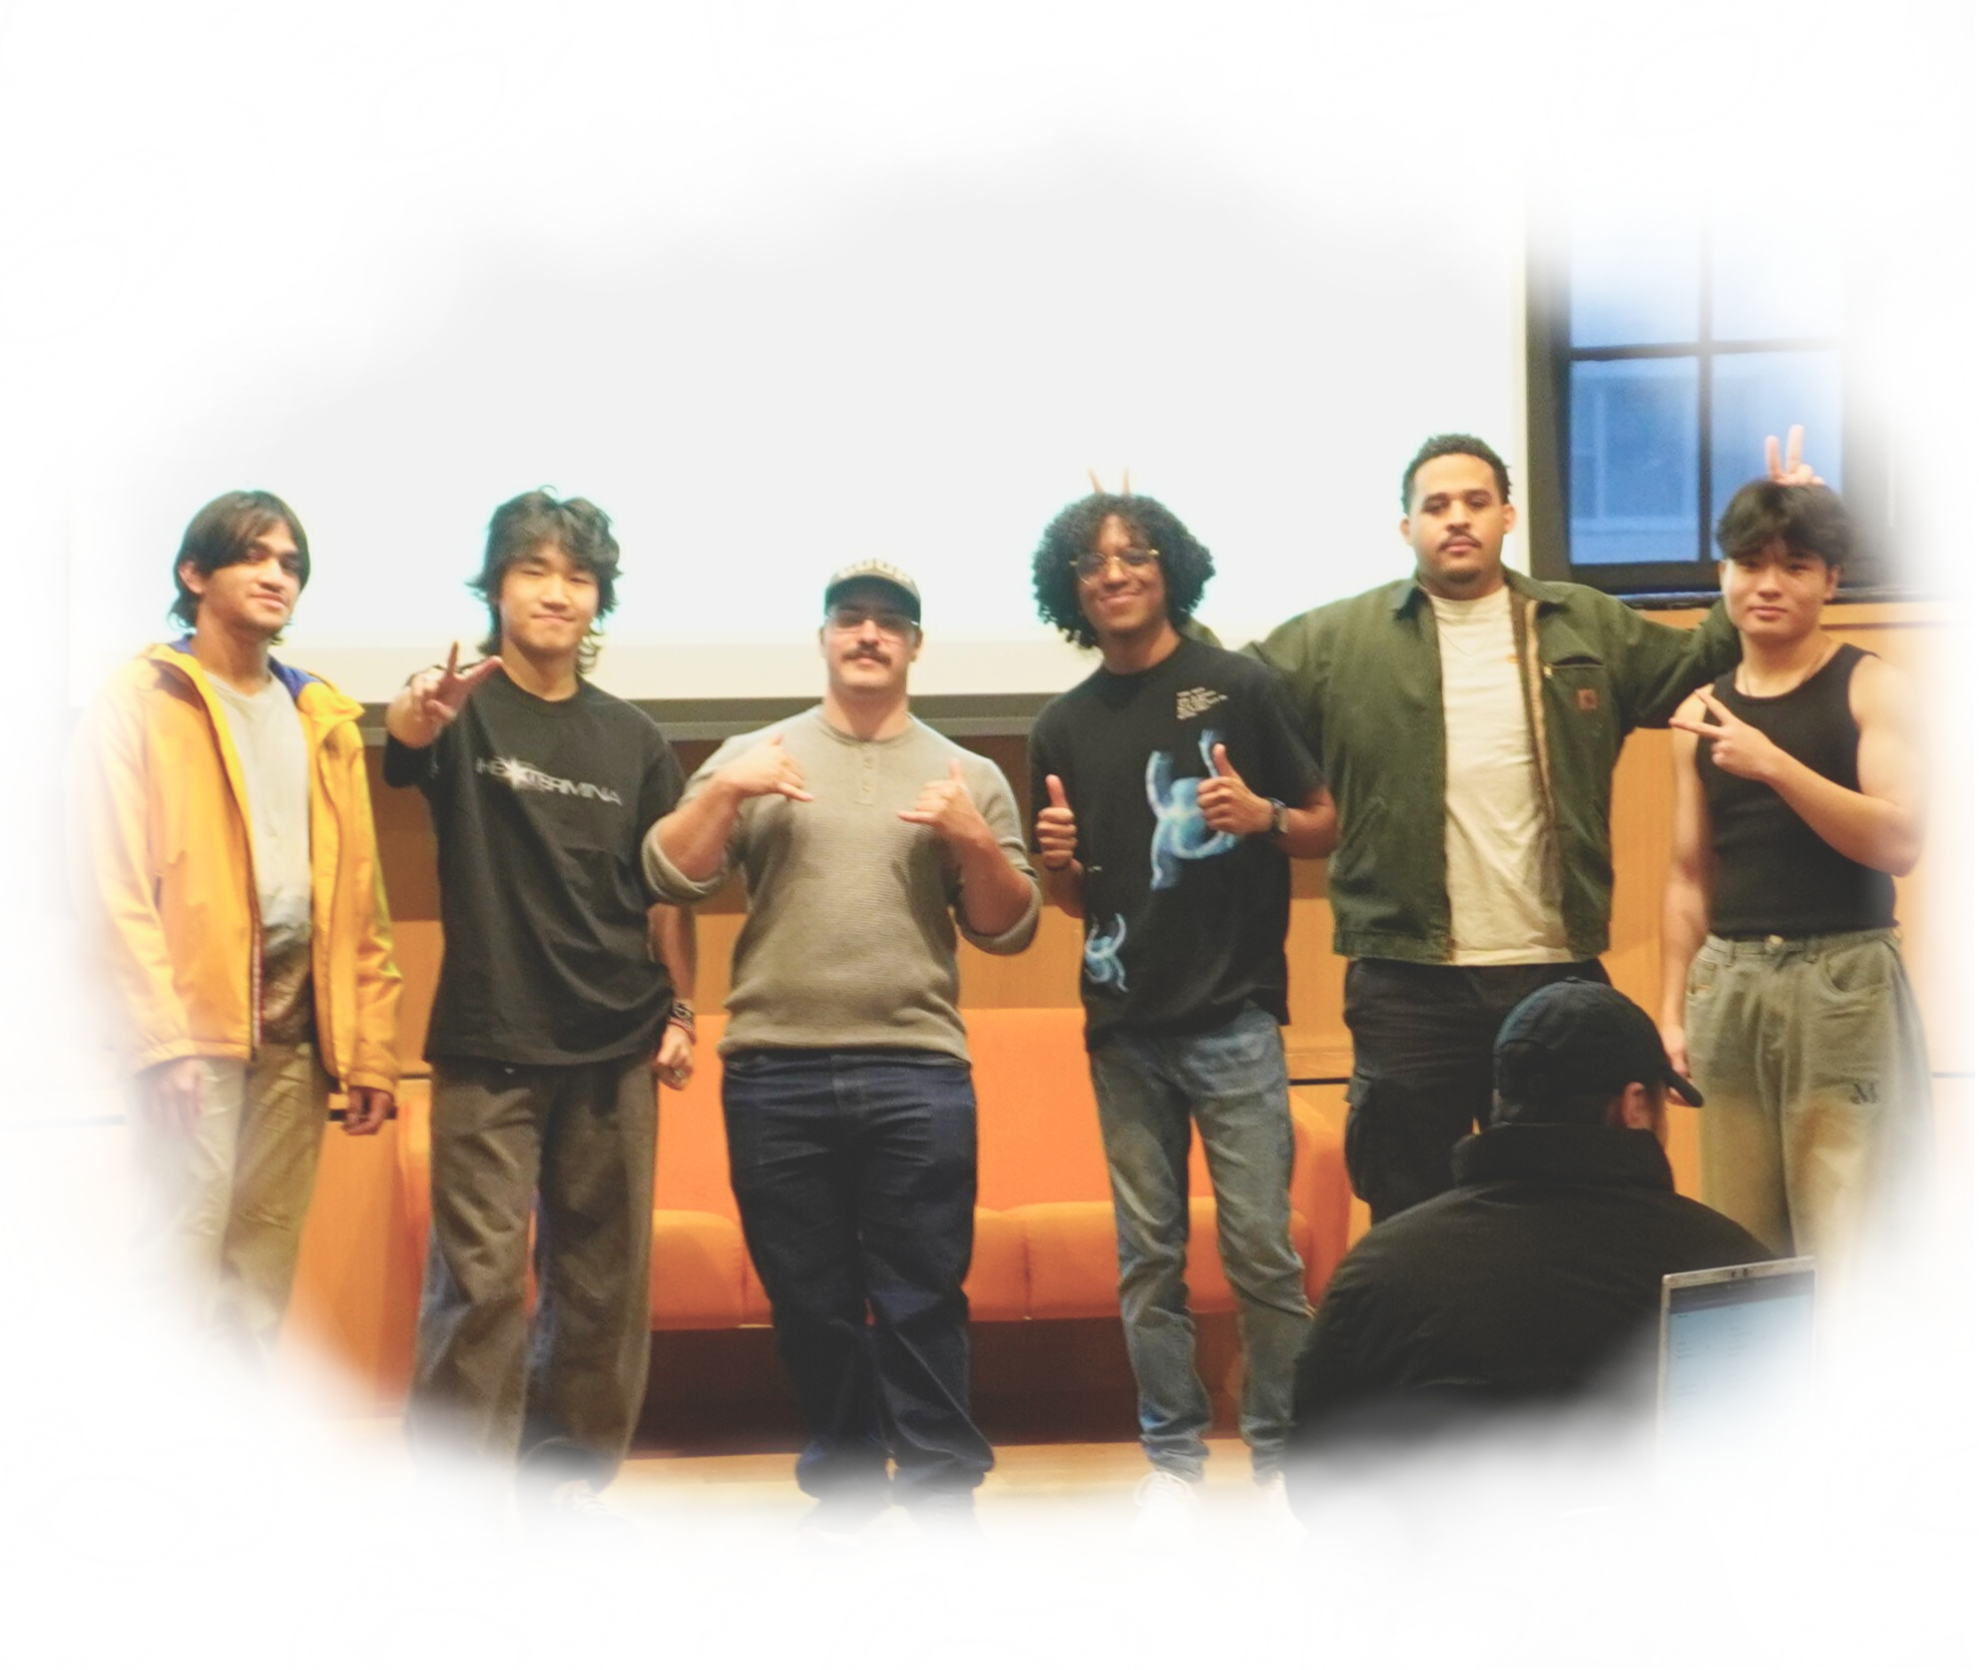
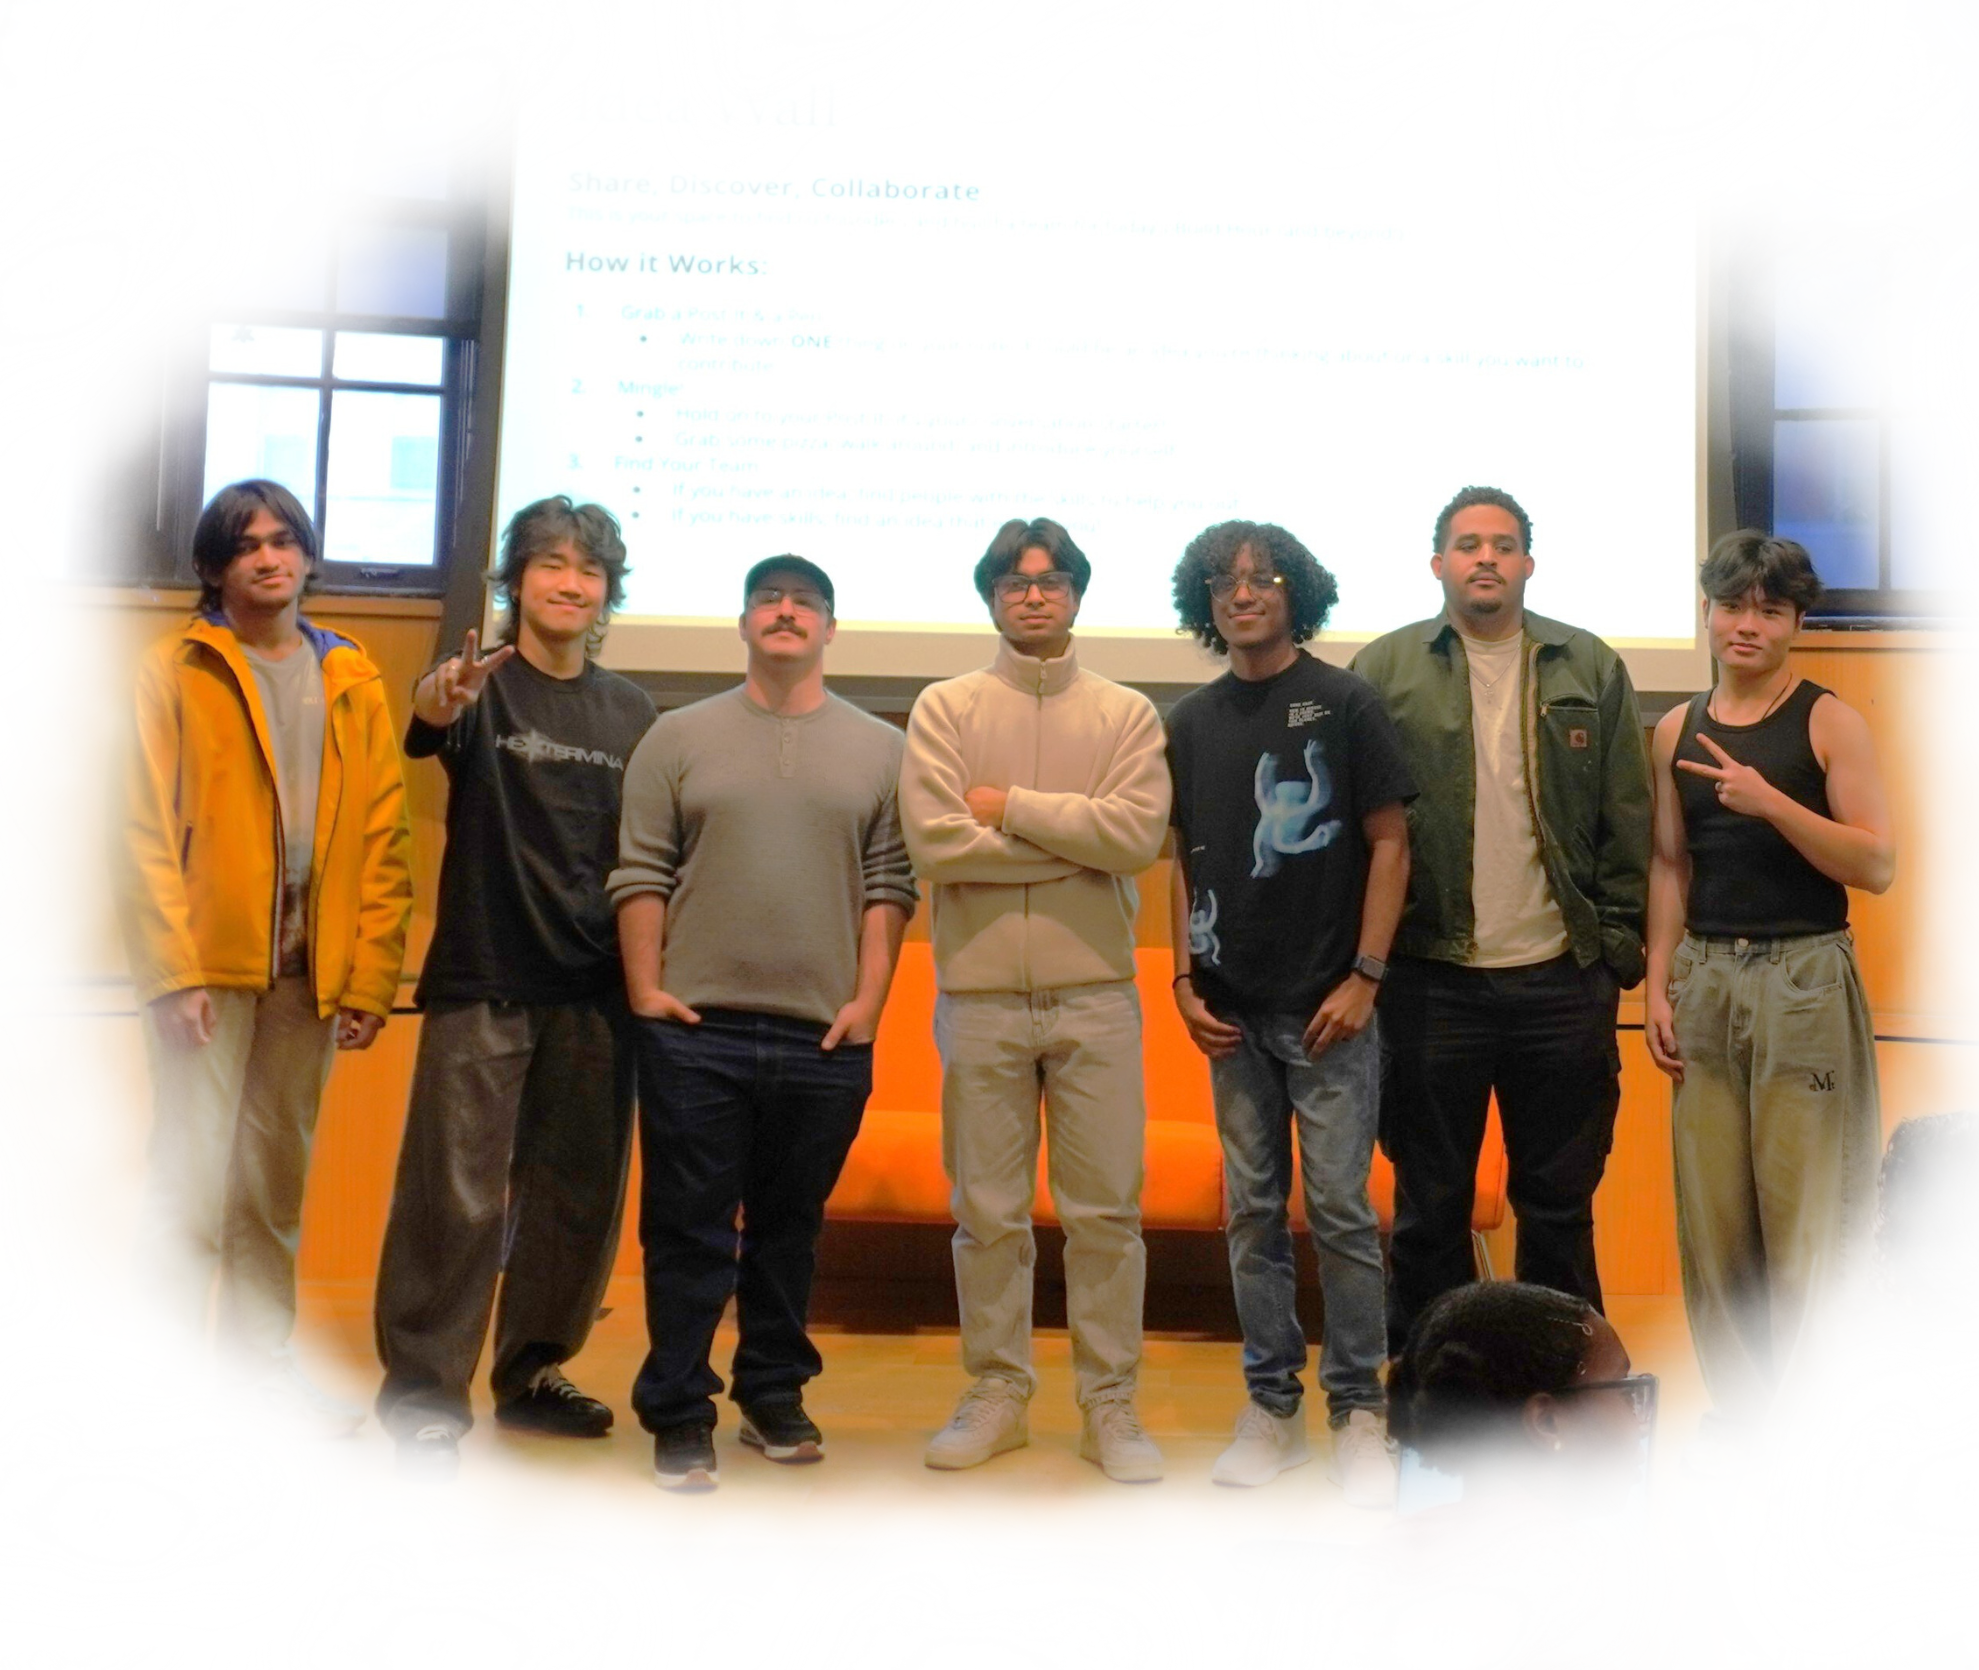
Updated founders story image

diff --git a/src/app/about/_components/OurStory.tsx b/src/app/about/_components/OurStory.tsx
@@ -34,10 +34,9 @@ export default function WhoWeAre() {
       </header>
       <aside className="lg:col-span-6 relative">
         <img
-          src="/team.JPG"
+          src="/team.png"
           alt="Our team"
-          className="w-full h-full max-w-2xl lg:ml-auto lg:mr-0 mx-auto object-cover rounded-2xl saturate-75"
-          style={{ borderRadius: "50% 20% / 10% 40%" }}
+          className="w-full h-full max-w-2xl lg:ml-auto lg:mr-0 mx-auto object-cover rounded-2xl"
         />
       </aside>
     </div>
